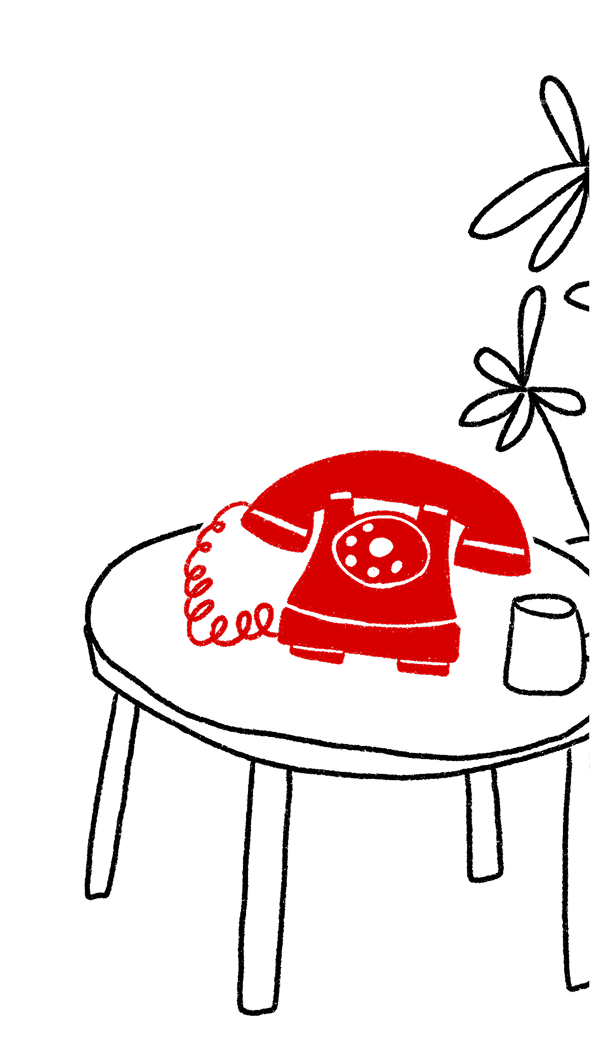
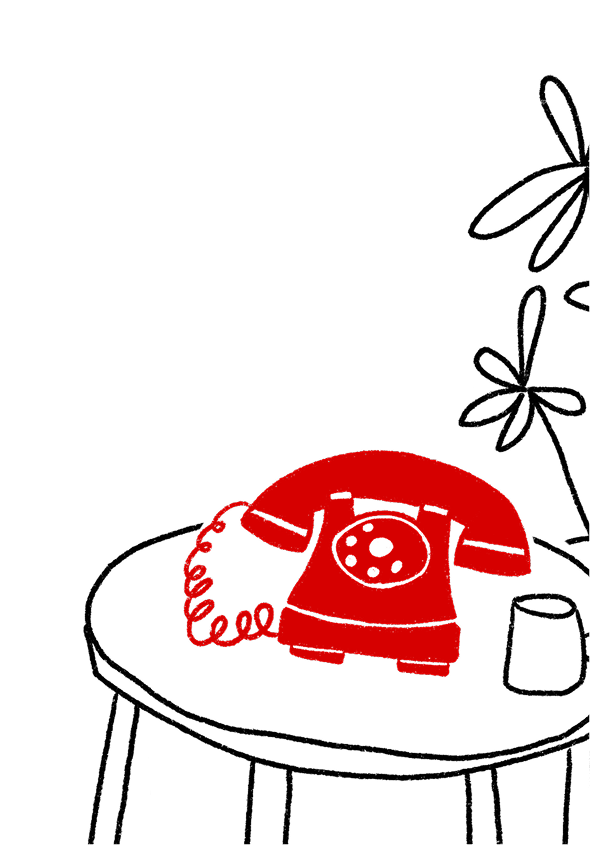
Swap mobile artwork to tighter crop (590:845 instead of 590:1041)
Less empty space above the phone/flowers, so the full-bleed image no
longer reaches as far up the screen — clears the text with a comfortable
gap now instead of nearly touching it. Hit-area and the tap-pill's
vertical center recomputed for the new aspect ratio.

Changed region(s): [[0.122, 0.0615, 1.0, 1.0]]

diff --git a/index.html b/index.html
@@ -83,8 +83,8 @@
   }
 
   /* --- Mobile layout: illustration is full-bleed — 100vw wide, no crop
-     (no object-fit, just the artwork's own 590:1041 ratio via height:auto,
-     so height = 100vw * 1041/590 = 176.4407vw), anchored flush to the
+     (no object-fit, just the artwork's own 590:845 ratio via height:auto,
+     so height = 100vw * 845/590 = 143.0991vw), anchored flush to the
      viewport bottom, no margin on any side. Note: --mobile-edge-gap (the
      "center everything on a larger screen" cap) intentionally does NOT
      apply here — the image stays edge-to-edge at any width, since a
@@ -99,7 +99,7 @@
       /* Vertical center of .hit-area (top + height/2), reused below to
          vertically align the tap pill with the phone regardless of where
          on the phone the user actually tapped. */
-      --phone-center-y: calc(100vh - 85.8472vw);
+      --phone-center-y: calc(100vh - 52.3242vw);
     }
     .phone-img {
       top: auto;
@@ -110,10 +110,10 @@
       height: auto;
     }
     .hit-area {
-      left: 28.17vw;
-      top: calc(100vh - 113.3631vw);
-      width: 64.68vw;
-      height: 55.0318vw;
+      left: 28.12vw;
+      top: calc(100vh - 79.234vw);
+      width: 64.74vw;
+      height: 53.8196vw;
     }
   }
 
